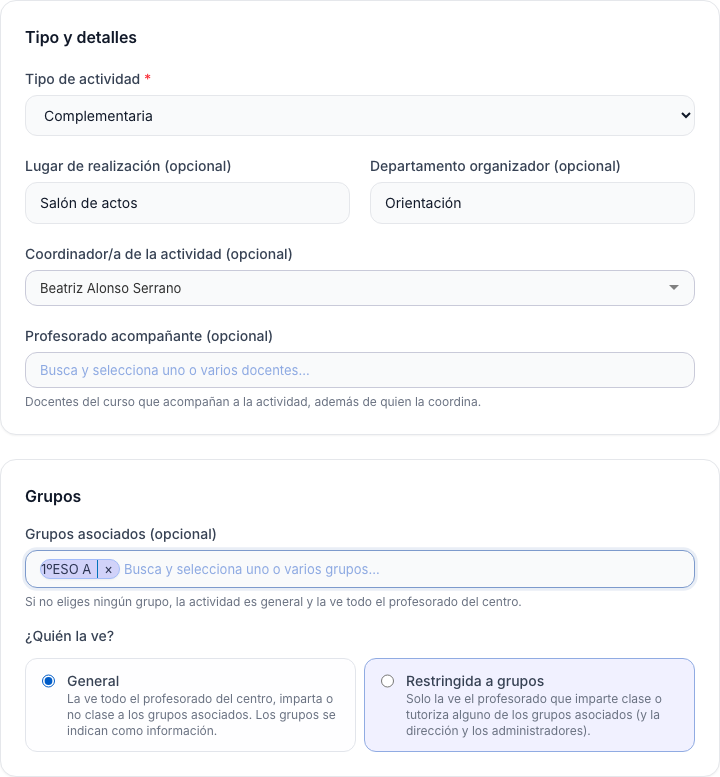
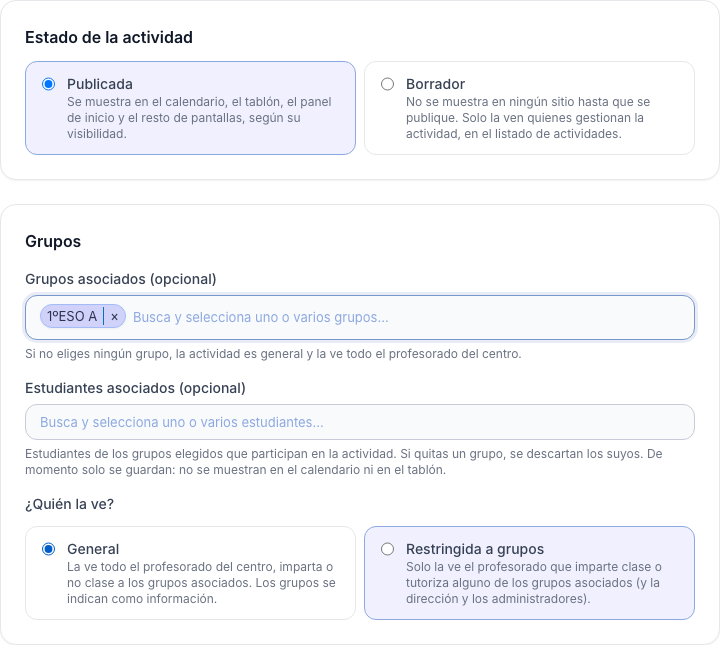
docs: capturas y manual de las actividades en borrador, la ficha con alumnado, el informe PDF y el catálogo de recursos
- Capturas nuevas: listado con borrador, ficha con casillas del informe y primera página del PDF; formulario de actividad y catálogo de recursos actualizados.
- Script capture-activity-report-shots.mjs y siembra con una excursión con alumnado y una actividad en borrador.

Claude-Session: https://claude.ai/code/session_01T5bQf589vbJe9wberdDbBm

diff --git a/scripts/seed/TmpSeedShotsCommand.php b/scripts/seed/TmpSeedShotsCommand.php
@@ -247,8 +247,18 @@ final class TmpSeedShotsCommand extends Command
             foreach ($groups as $g) {
                 $event->addGroup($g);
             }
+            // La excursión lleva alumnado asociado de sus dos grupos (ficha e informe PDF de la actividad).
+            if ($name === 'Excursión a la Sierra de Aracena') {
+                foreach ([...array_slice($this->students($groupA), 0, 5), ...array_slice($this->students($groupB), 0, 3)] as $student) {
+                    $event->addStudent($student);
+                }
+            }
             $this->em->persist($event);
         }
+        // Una actividad en borrador: solo aparece en el listado de gestión.
+        $this->em->persist((new SchoolEvent())->setAcademicYear($this->year)->setName('Jornada de puertas abiertas')->setDate(new \DateTimeImmutable('2026-11-12'))
+            ->setStartTime(new \DateTimeImmutable('2000-01-01 17:00'))->setEndTime(new \DateTimeImmutable('2000-01-01 19:00'))->setGeneral(true)
+            ->setType($types['Otros'] ?? null)->setLocation('Salón de actos')->setCoordinator($carmen)->setCreatedBy($carmen)->setDraft(true));
 
         // ── Registro de actividad: una entrada de cada forma que muestra la lista legible
         $admin = $this->teacher('admin');

diff --git a/docs/manual/05-calendario-y-tablon.md b/docs/manual/05-calendario-y-tablon.md
@@ -111,7 +111,8 @@ Cada actividad tiene:
   vez. Una actividad puede estar asociada a grupos aunque la vea todo el centro.
 - **Estudiantes asociados** (opcionales), que aparecen al elegir algún grupo y se eligen entre los
   estudiantes de esos grupos. Si después se quita un grupo, se descartan sus estudiantes. De momento
-  esta información solo se guarda en la actividad: no se muestra en el calendario ni en el tablón.
+  esta información solo se ve en la [ficha de la actividad y en su informe PDF](#informe-de-una-actividad):
+  no se muestra en el calendario, el tablón ni el resto de pantallas.
 - **Visibilidad**, que solo aparece al elegir al menos un grupo:
     - **General** — la ve todo el profesorado del centro, imparta o no clase a los grupos
       asociados; los grupos se muestran como información.
@@ -123,14 +124,17 @@ Cada actividad tiene:
   para mostrarla en ningún sitio —calendario, tablón, panel de inicio, guardias— hasta que se publique;
   solo aparece, marcada como «Borrador», en el listado de actividades de quienes la gestionan.
 
+![Listado de actividades: la «Jornada de puertas abiertas» está en borrador y lleva su etiqueta](img/calendario/actividad-listado.png)
+
 Si no se elige ningún grupo, la actividad es **general** automáticamente y el formulario no muestra
 ninguna opción de visibilidad:
 
 ![Formulario de una actividad sin grupos asociados: no hay opciones de visibilidad](img/calendario/actividad-formulario-sin-grupos.png)
 
-En cuanto se elige un grupo aparecen las dos opciones, cada una con su explicación:
+En cuanto se elige un grupo aparecen el campo de estudiantes y las dos opciones de visibilidad, cada
+una con su explicación (la captura incluye también el estado de la actividad):
 
-![Formulario de una actividad con un grupo asociado: aparecen las opciones «General» y «Restringida a grupos»](img/calendario/actividad-formulario.png)
+![Formulario de una actividad con un grupo asociado: estado, estudiantes y las opciones «General» y «Restringida a grupos»](img/calendario/actividad-formulario.png)
 
 ### Informe de una actividad {#informe-de-una-actividad}
 
@@ -139,10 +143,14 @@ y el alumnado asociado separado por grupos. Desde ahí se genera un **informe en
 información. Pueden hacerlo quien registró la actividad, la coordinación de actividades, el equipo
 directivo y los administradores (los mismos que pueden editarla).
 
+![Ficha de una actividad con el alumnado por grupos y las casillas del informe](img/calendario/actividad-ficha.png)
+
 Antes de generarlo hay una casilla por cada grupo con alumnado asociado, todas marcadas por defecto:
 los grupos marcados muestran además el **listado de nombres**; los desmarcados solo indican **cuántos
 estudiantes** hay (ese número sale siempre). Si la actividad no tiene alumnado asociado, el informe
 solo recoge sus datos y los grupos.
+
+![Primera página del informe: datos de la actividad, recuento por grupo y listado de los estudiantes de 1º ESO A (1º ESO B solo con el recuento)](img/calendario/actividad-informe.png)
 
 El aspecto del informe (encabezado, pie, margen superior y plantilla de fondo) se configura en los
 [ajustes del centro](07-administrar-la-plataforma.md#personalizacion-de-informes), igual que el de los

diff --git a/scripts/seed/README.md b/scripts/seed/README.md
@@ -5,7 +5,7 @@ Material **temporal** para regenerar las capturas del manual, de las fichas y de
 
 - `TmpSeedShotsCommand.php` — comando `tmp:seed-shots`: partes (graves y no, notificados y pendientes),
   sanciones (pendiente, vigente con tareas, antigua con seguimiento), notas, tramos con guardias, ausencias con
-  actividad y adjunto, eventos, categorías de recursos compartidos con sus reservas (y tramos de martes a viernes)
+  actividad y adjunto, eventos (la excursión con alumnado asociado y una actividad en borrador), categorías de recursos compartidos con sus reservas (y tramos de martes a viernes)
   y entradas del registro de actividad, todo fechado alrededor de «hoy» (lunes
   2026-10-05). **Cópialo a `src/Command/` para usarlo y bórralo después**: allí rompe PHPStan (regla que prohíbe
   `getRepository()`/`find()` fuera de los repositorios) y no debe commitearse.
